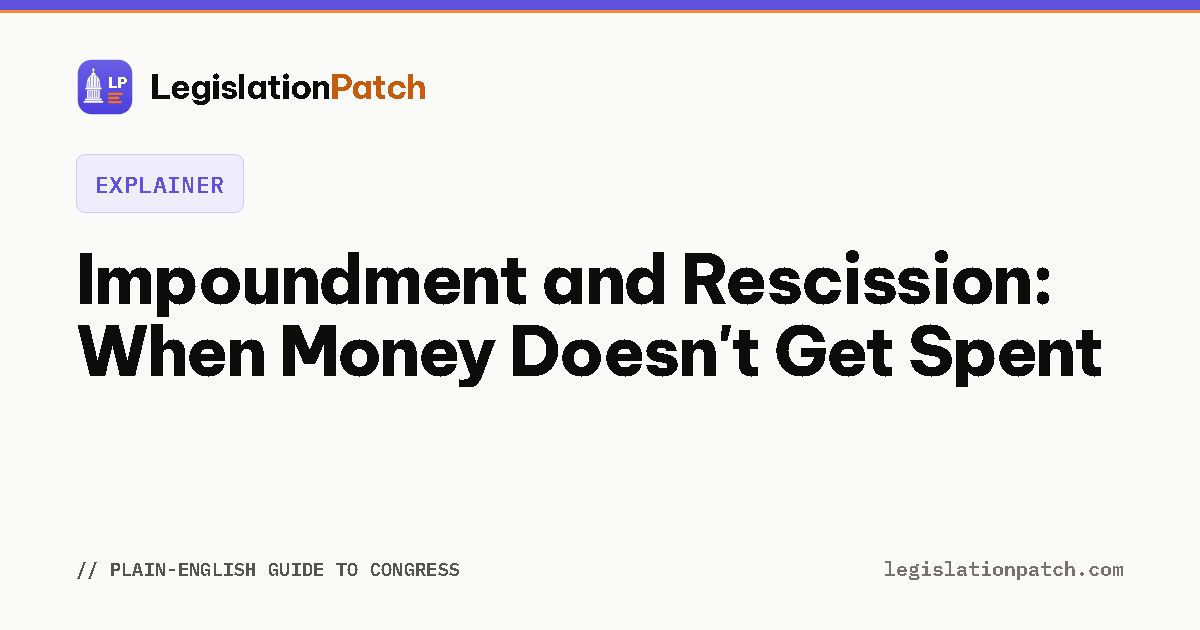
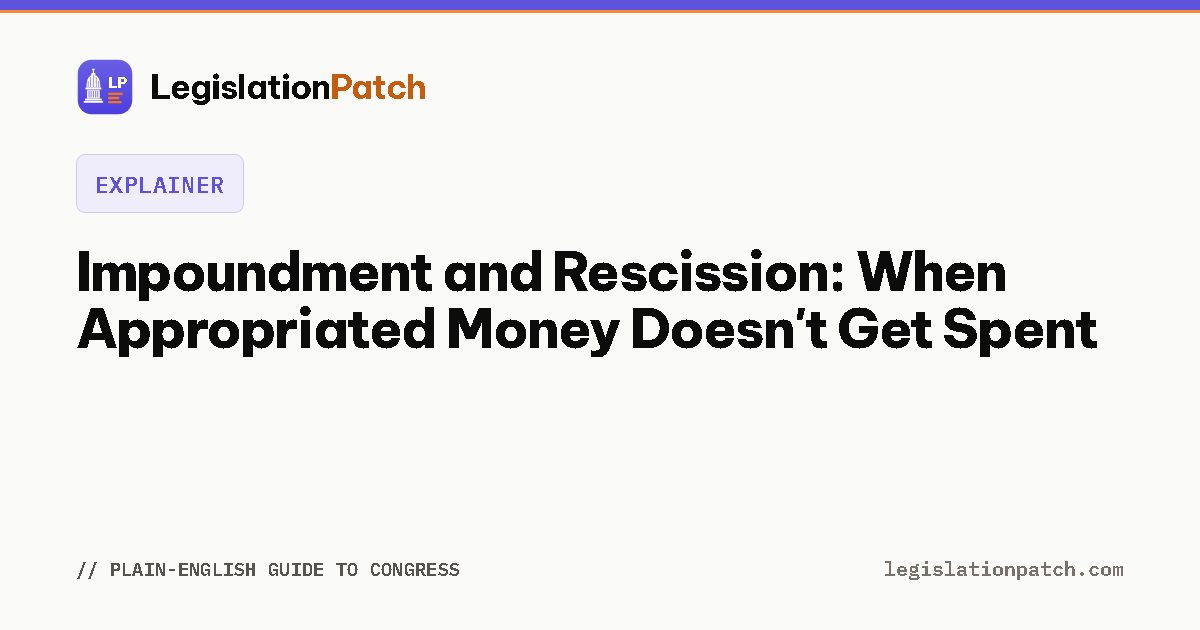
Refresh explainer: impoundment-rescission (87-claim ledger, 11 sources, 5 passes)

Changed region(s): [[0.0617, 0.3921, 0.925, 0.6333]]

diff --git a/articles/impoundment-rescission.html b/articles/impoundment-rescission.html
@@ -12,7 +12,7 @@
   <meta property="og:type" content="article" />
   <meta property="og:url" content="https://legislationpatch.com/articles/impoundment-rescission.html" />
   <meta property="og:title" content="Impoundment and Rescission: When Appropriated Money Doesn't Get Spent" />
-  <meta property="og:description" content="What impoundment, rescission, and deferral mean under the Impoundment Control Act of 1974 — the 45-day clock, the GAO's role, what a rescission bill is, and the disputed 'pocket rescission' maneuver, presented as attributed legal positions." />
+  <meta property="og:description" content="What impoundment, rescission, and deferral mean under the Impoundment Control Act of 1974 — the 45-day clock, the GAO's role, what a rescission bill is, and the disputed &quot;pocket rescission&quot; maneuver, presented as attributed legal positions." />
   <meta property="og:image" content="https://legislationpatch.com/og/articles/impoundment-rescission.png" />
   <meta name="twitter:card" content="summary_large_image" />
   <meta name="twitter:image" content="https://legislationpatch.com/og/articles/impoundment-rescission.png" />
@@ -22,7 +22,7 @@
     "@context": "https://schema.org",
     "@type": "Article",
     "headline": "Impoundment and Rescission: When Appropriated Money Doesn't Get Spent",
-    "description": "What impoundment, rescission, and deferral mean under the Impoundment Control Act of 1974 — the 45-day clock, the GAO's role, what a rescission bill is, and the disputed 'pocket rescission' maneuver, presented as attributed legal positions.",
+    "description": "What impoundment, rescission, and deferral mean under the Impoundment Control Act of 1974 — the 45-day clock, the GAO's role, what a rescission bill is, and the disputed &quot;pocket rescission&quot; maneuver, presented as attributed legal positions.",
     "author": {
       "@id": "https://legislationpatch.com/author/james-shearn#person"
     },
@@ -30,7 +30,7 @@
       "@id": "https://legislationpatch.com/#organization"
     },
     "datePublished": "2026-07-17",
-    "dateModified": "2026-07-17",
+    "dateModified": "2026-09-01",
     "url": "https://legislationpatch.com/articles/impoundment-rescission.html",
     "image": "https://legislationpatch.com/og/articles/impoundment-rescission.png",
     "mainEntityOfPage": {
@@ -63,7 +63,64 @@
       "@type": "Thing",
       "name": "Impoundment of appropriated funds",
       "sameAs": "https://en.wikipedia.org/wiki/Impoundment_of_appropriated_funds"
-    }
+    },
+    "citation": [
+      {
+        "@type": "CreativeWork",
+        "name": "U.S. GAO: Impoundment Control Act",
+        "url": "https://www.gao.gov/legal/appropriations-law/impoundment-control-act"
+      },
+      {
+        "@type": "CreativeWork",
+        "name": "CRS Report R48432 — The Impoundment Control Act of 1974: Background and Congressional Consideration of Rescissions (February 25, 2025)",
+        "url": "https://www.everycrsreport.com/reports/R48432.html"
+      },
+      {
+        "@type": "CreativeWork",
+        "name": "CRS Legal Sidebar LSB11374 — Pocket Rescissions and the Impoundment Control Act (last revised September 25, 2025)",
+        "url": "https://www.everycrsreport.com/reports/LSB11374.html"
+      },
+      {
+        "@type": "CreativeWork",
+        "name": "CRS Report R46240 — Introduction to the Federal Budget Process",
+        "url": "https://www.everycrsreport.com/reports/R46240.html"
+      },
+      {
+        "@type": "CreativeWork",
+        "name": "2 U.S.C. 682 — Definitions",
+        "url": "https://uscode.house.gov/view.xhtml?req=granuleid:USC-prelim-title2-section682&num=0&edition=prelim"
+      },
+      {
+        "@type": "CreativeWork",
+        "name": "2 U.S.C. 683 — Rescission of budget authority",
+        "url": "https://uscode.house.gov/view.xhtml?req=granuleid:USC-prelim-title2-section683&num=0&edition=prelim"
+      },
+      {
+        "@type": "CreativeWork",
+        "name": "2 U.S.C. 684 — Proposed deferrals of budget authority",
+        "url": "https://uscode.house.gov/view.xhtml?req=granuleid:USC-prelim-title2-section684&num=0&edition=prelim"
+      },
+      {
+        "@type": "CreativeWork",
+        "name": "2 U.S.C. 685 — Transmission of messages; publication",
+        "url": "https://uscode.house.gov/view.xhtml?req=granuleid:USC-prelim-title2-section685&num=0&edition=prelim"
+      },
+      {
+        "@type": "CreativeWork",
+        "name": "2 U.S.C. 686 — Reports by Comptroller General",
+        "url": "https://uscode.house.gov/view.xhtml?req=granuleid:USC-prelim-title2-section686&num=0&edition=prelim"
+      },
+      {
+        "@type": "CreativeWork",
+        "name": "2 U.S.C. 687 — Suits by Comptroller General",
+        "url": "https://uscode.house.gov/view.xhtml?req=granuleid:USC-prelim-title2-section687&num=0&edition=prelim"
+      },
+      {
+        "@type": "CreativeWork",
+        "name": "2 U.S.C. 688 — Procedure in House of Representatives and Senate",
+        "url": "https://uscode.house.gov/view.xhtml?req=granuleid:USC-prelim-title2-section688&num=0&edition=prelim"
+      }
+    ]
   }
   </script>
 
@@ -131,66 +188,99 @@
 
       <div class="topic-hub-link" style="margin:-4px 0 16px;font-size:0.85rem;opacity:0.85">Part of the topic hub: <a href="/topics/government-spending/">Government Spending &amp; the Budget, Explained</a></div>
 
-      <h1 class="article-title">Impoundment and Rescission: When Money Doesn't Get Spent</h1>
+      <h1 class="article-title">Impoundment and Rescission: When Appropriated Money Doesn't Get Spent</h1>
 
       <div class="article-meta">
         <span>By <a href="https://legislationpatch.com/author/james-shearn" rel="author">James Shearn</a>, Editor</span>
-        <span>Published July 2026</span>
+        <span>Published July 2026</span><span>Updated September 2026</span>
       </div>
 
       <div class="article-body">
 
-        <p>Congress appropriates money, but the executive branch spends it — and sometimes the executive branch would prefer not to. Impoundment is the general term for the executive holding back or delaying money Congress has appropriated. Since 1974, a federal statute has set the rules for when and how that can happen, and the boundaries of those rules are the subject of an active legal dispute. This guide explains the mechanism defined by the Impoundment Control Act, the difference between a rescission and a deferral, the role the Government Accountability Office plays, and the contested "pocket rescission" maneuver. Where the law is disputed, this guide reports each side's position rather than resolving it.</p>
+        <p>Congress appropriates money, but the executive branch spends it — and sometimes the executive branch would prefer not to. Impoundment is the general term for the executive holding back or delaying money Congress has appropriated. Since 1974 a federal statute has set the rules for when and how that can happen. This guide explains the mechanism the Impoundment Control Act defines, the difference between a rescission and a deferral, the role the Government Accountability Office plays, and the contested "pocket rescission" maneuver. Where the law is disputed, this guide reports each side's position, dated to the source that records it, rather than resolving it.</p>
 
         <h2>What is impoundment?</h2>
 
-        <p>Impoundment is an executive action that withholds or delays the obligation of budget authority that Congress has provided. After a series of disputes in the early 1970s over funds the executive branch declined to spend, Congress enacted the Impoundment Control Act of 1974 as Title X of the Congressional Budget and Impoundment Control Act. It is codified at 2 U.S.C. sections 681 through 688. The Act does not ban impoundment; it channels it into two defined procedures — rescission and deferral — and requires the President to notify Congress through a "special message" whenever either is used.</p>
+        <p>The Congressional Research Service defines it plainly: "Impoundment occurs when appropriated funds are withheld from obligation or expenditure. Historically, most impoundments were noncontroversial, primarily undertaken to manage expenditures or effect savings."</p>
+        <p>What changed that was a fight in the 1970s. CRS records that "In the 1970s, however, President Richard Nixon asserted the authority to act on his own to withhold funds or curtail programs he opposed. This assertion was challenged in the courts in a number of suits to compel the release of impounded funds or require the Administration to carry out statutory duties that would result in the expenditure of funds. Congress ultimately responded by enacting impoundment control legislation as Title X of the Congressional Budget and Impoundment Control Act of 1974 (P.L. 93-344)." GAO gives the same account: "In 1974, Congress enacted the Impoundment Control Act in response to attempts by the executive branch to refuse to spend congressionally appropriated funds." CRS gives the codification: "Title X of the Congressional Budget and Impoundment Control Act of 1974 (P.L. 93-344, 2 U.S.C. §§681-688) is known as the Impoundment Control Act (ICA)."</p>
+        <p>The Act does not ban impoundment. It sorts it: the ICA "amended the Antideficiency Act to limit its use for impounding funds and divided impoundments into two categories: deferrals, which provide for a temporary delay of spending, and rescissions, which provide for the permanent cancellation of spending." It also put a clock on the executive where there had been none — "Prior to the enactment of the ICA, there was no express statutory limit on the length of time the President could withhold appropriated funds." Both routes run through a special message to Congress. As GAO summarises it, the Act "permits the President to temporarily impound" appropriated funds in certain circumstances "if the President notifies the Congress by transmitting a" special message.</p>
 
         <h2>Rescission vs. deferral: what's the difference?</h2>
 
-        <p>A <strong>rescission</strong> is a proposal to permanently cancel budget authority before it would otherwise expire. To propose one, the President sends Congress a special message identifying the specific amounts and accounts. Crucially, proposing a rescission only lets the executive withhold the funds temporarily: the money may be held for up to 45 days of continuous session while Congress considers the request. If Congress does not pass legislation approving the rescission within that window, the withheld budget authority must be made available for obligation. In other words, a rescission proposal that Congress ignores fails — the default is that the money gets released.</p>
+        <p>A <strong>rescission</strong>, in GAO's words, "is the proposed cancellation of budget authority that has been provided by Congress before that authority would otherwise expire." To propose one the President transmits a special message identifying the amounts and accounts. Proposing it only buys time: "Once a recission is proposed to Congress, the President can withhold the budget authority for 45 days while Congress is in continuous session. Unless Congress completes action on a rescission bill to approve the proposed rescission within that time, the budget authority must be made available for obligation."</p>
 
-        <p>A <strong>deferral</strong> is a proposal to delay, rather than cancel, the obligation of funds. The Act permits deferrals only for limited reasons: to provide for contingencies, to achieve savings made possible by changes in requirements or greater efficiency of operations, or as otherwise specifically provided by law. A deferral cannot be used simply because the executive disagrees with the spending on policy grounds, and it may not extend beyond the end of the fiscal year in which it is proposed.</p>
+        <p>That is the statute's own language. 2 U.S.C. 683(b) provides that "Any amount of budget authority proposed to be rescinded or that is to be reserved as set forth in such special message shall be made available for obligation unless, within the prescribed 45-day period, the Congress has completed action on a rescission bill rescinding all or part of the amount proposed to be rescinded or that is to be reserved," and adds a one-shot rule: "Funds made available for obligation under this procedure may not be proposed for rescission again." A rescission proposal Congress ignores therefore fails, and the money is released. "Continuous session" is a defined term — under 2 U.S.C. 682(5), "continuity of a session of the Congress shall be considered as broken only by an adjournment of the Congress sine die," and days lost to adjournments of more than three days do not count.</p>
+
+        <p>A <strong>deferral</strong> is a proposal to delay rather than cancel. GAO: "A deferral occurs when an agency temporarily withholds funds from obligation or expenditure." The statutory definition at 2 U.S.C. 682(1)(B) is wider than it sounds, reaching "any other type of Executive action or inaction which effectively precludes the obligation or expenditure of budget authority, including authority to obligate by contract in advance of appropriations as specifically authorized by law." The permitted grounds are closed: 2 U.S.C. 684(b) provides that "Deferrals shall be permissible only — (1) to provide for contingencies; (2) to achieve savings made possible by or through changes in requirements or greater efficiency of operations; or (3) as specifically provided by law. No officer or employee of the United States may defer any budget authority for any other purpose." Policy disagreement is not on that list. And there is an outer limit: "A deferral may not be proposed for any period of time extending beyond the end of the fiscal year in which the special message proposing the deferral is transmitted to the House and the Senate."</p>
 
         <h2>What role does the GAO play?</h2>
 
-        <p>The Impoundment Control Act assigns an oversight role to the Comptroller General, who heads the Government Accountability Office. Under the Act, the GAO reviews each special message and reports its findings to Congress. It checks that an impoundment is classified correctly — for instance, that a proposal to cancel funds is not labeled a deferral to sidestep the rescission rules — and it can reclassify a message accordingly. The GAO is also directed to notify Congress if the President withholds funds without submitting the required special message. If budget authority is being withheld improperly, the Act authorizes the Comptroller General to bring a civil action in the U.S. District Court for the District of Columbia to compel the funds to be made available.</p>
+        <p>The Act assigns an oversight role to the Comptroller General — duties the Government Accountability Office publishes under the heading "GAO's Responsibilities Under the Impoundment Control Act." Three duties and one remedy, all in the statute.</p>
+
+        <p><strong>Review.</strong> Under 2 U.S.C. 685(b), "the Comptroller General shall review each such message and inform the House of Representatives and the Senate as promptly as practicable" — on a rescission message, about "the facts surrounding the proposed rescission or the reservation of budget authority (including the probable effects thereof)"; on a deferral message, about those facts and about "whether or not (or to what extent), in his judgment, such proposed deferral is in accordance with existing statutory authority." GAO puts its own gloss on the same duty: "The Comptroller General is required to review each special message and report the findings to Congress as soon as practicable."</p>
+
+        <p><strong>Classification.</strong> Under 2 U.S.C. 686(b), where "the Comptroller General believes that the President so transmitted the special message in accordance with one of those sections when the special message should have been transmitted in accordance with the other of those sections, the Comptroller General shall make a report to both Houses of the Congress setting forth his reasons." In GAO's summary, "The Comptroller General also ensures that the impoundment is not misclassified, such as a rescission proposal reported as a deferral."</p>
+
+        <p><strong>Unreported impoundments.</strong> Where the President has withheld funds without the required message, 2 U.S.C. 686(a) provides that "the Comptroller General shall make a report on such reserve or deferral and any available information concerning it to both Houses of Congress" — and the Act then treats that report as if it were the President's own special message. GAO states the duty the same way: "The Comptroller General must also report to Congress if the President has failed to report an impoundment to Congress in a special message as required."</p>
+
+        <p><strong>Suit.</strong> Under 2 U.S.C. 687, "the Comptroller General is hereby expressly empowered, through attorneys of his own selection, to bring a civil action in the United States District Court for the District of Columbia to require such budget authority to be made available for obligation." It is not immediate: "No civil action shall be brought by the Comptroller General under this section until the expiration of 25 calendar days of continuous session of the Congress following the date on which an explanatory statement by the Comptroller General of the circumstances giving rise to the action contemplated has been filed with the Speaker of the House of Representatives and the President of the Senate." GAO describes the same remedy: "If an agency does not release budget authority for the obligation, the Comptroller General may bring a civil action in the U.S. District Court for the District of Columbia to compel such action."</p>
 
         <h2>What is a rescission bill?</h2>
 
-        <p>A rescission bill is the legislation Congress passes to approve a rescission the President has proposed. The Impoundment Control Act gives it expedited treatment in the Senate: a qualifying rescission bill is considered under fast-track procedures, cannot be filibustered, and passes on a simple majority rather than the 60 votes cloture usually requires. That expedited path exists so Congress can act on a rescission request within the 45-day clock. If Congress declines to pass a rescission bill, the proposal simply lapses and the funds are released. Rescissions therefore differ from ordinary spending cuts in that they run through a defined statutory procedure tied to funds the executive has already been given. For the broader funding cycle these sit inside, see our guide on <a href="appropriations-process.html">how federal appropriations work</a>.</p>
+        <p>A rescission bill is the legislation Congress passes to approve a rescission the President has proposed. 2 U.S.C. 682(3) defines it narrowly: a bill or joint resolution "which only rescinds, in whole or in part, budget authority proposed to be rescinded in a special message transmitted by the President under section 683 of this title," on which Congress completes action inside the 45-day window.</p>
+
+        <p>What the Act gives it is a debate clock, not a different vote threshold. CRS: "These procedures include limits on debate time, which effectively eliminates the need to invoke cloture to reach a final vote on the bill." The Senate figure is in 2 U.S.C. 688(d)(1): "Debate in the Senate on any rescission bill or impoundment resolution, and all amendments thereto (in the case of a rescission bill) and debatable motions and appeals in connection therewith, shall be limited to not more than 10 hours." The House figure is in 688(c)(2): "Debate on a rescission bill or impoundment resolution shall be limited to not more than 2 hours, which shall be divided equally between those favoring and those opposing the bill or resolution." Amendments are constrained too — "No amendment that is not germane to the provisions of a rescission bill shall be received" — and, as CRS notes of the Senate limit, "These limits are considered by the Senate to be limits on debate time only, not on total consideration." CRS puts the resemblance no higher than that: the ICA language "is analogous to the language in Title III of the Budget Act, which establishes similar debate limits for budget resolutions and <a href="budget-reconciliation.html">reconciliation bills</a>."</p>
+
+        <p>A bill can be prised out of committee. Under 2 U.S.C. 688(b)(1), "If the committee to which a rescission bill or impoundment resolution has been referred has not reported it at the end of 25 calendar days of continuous session of the Congress after its introduction, it is in order to move either to discharge the committee from further consideration of the bill or resolution" or from any other rescission bill on the same special message.</p>
+
+        <p>None of it is compulsory, and none of it is common. CRS: "The procedure in the ICA, however, is not the exclusive means for considering rescissions, nor is there any requirement that the House or Senate must use this procedure (or any other) to consider rescission requests transmitted by the President." And: "Congress has used this procedure infrequently, and as a consequence there are few precedents or examples to guide its interpretation and application." Writing in February 2025, CRS gave as "the two most recent instances in which the House considered rescission bills pursuant to presidential special messages" 1992, when H.R. 4990 became P.L. 102-298, and 2018, when H.R. 3 passed the House but the Senate motion to discharge "subsequently failed, however, 48-50."</p>
+
+        <p>One more has happened since. A later CRS sidebar opens: "On July 24, 2025, President Donald J. Trump signed into law the Rescissions Act of 2025. The statute marks the first time since 1992 that a President has successfully invoked the Impoundment Control Act of 1974 (ICA) to secure passage of a rescission bill." It followed the ordinary route: "Congress acted after President Trump's May 2025 transmission to Congress of a rescission special message. The special message made available special legislative procedures, including limits on debate in the Senate on a rescission bill introduced with respect to the special message." The expedited path is also time-boxed, in the earlier report's words: "These expedited procedures are available only during the period when funds may be withheld from obligation."</p>
+
+        <p>If Congress declines to pass a rescission bill, the proposal lapses and the funds are released. For the broader funding cycle these sit inside, see our guide on <a href="appropriations-process.html">how federal appropriations work</a>.</p>
 
         <h2>What is a "pocket rescission"?</h2>
 
-        <p>A "pocket rescission" refers to the executive sending a rescission special message so close to the date the funds would expire that the 45-day withholding period runs past that expiration date. Because the funds would lapse on their own before the 45 days elapse, the practical effect is that the money is never spent even though Congress never approved the rescission. Whether the Act permits this is disputed, and the dispute has been primarily between two parts of the government that have reached different legal conclusions.</p>
+        <p>A "pocket rescission" is the executive sending a rescission special message so close to the date the funds would expire that the 45-day withholding period runs past that expiration date. GAO describes the practice at issue as "the withholding of funds proposed for rescission through their expiration date." Because the funds lapse on their own before the 45 days elapse, the practical effect is that the money is never spent even though Congress never approved the rescission. The August 2025 message is the worked example CRS gives: "All of the funds that the President proposes to rescind expire at the end of FY2025 (i.e., on October 1, 2025)." "Fewer than 45 calendar days separate August 28 and October 1." And "the White House has said it intends to withhold the funds from obligation through their expiration unless, in the meantime, Congress rescinds the funds." CRS records that "senior Trump Administration officials have argued that a President may use the ICA to reduce federal spending when Congress does not enact a rescission bill by using a pocket rescission," and that examples are rare: "the historical record appears to contain only a few examples of pocket rescissions."</p>
+        <p>Whether the Act permits it is disputed. As CRS puts it, "Most of the recent legal debate concerning pocket rescissions has instead involved the Government Accountability Office (GAO) and the Office of Management and Budget (OMB), which have reached different legal conclusions," and the disagreement "centers on the text of Section 1012(b)" — the provision codified at 2 U.S.C. 683(b) and quoted above.</p>
 
-        <p><strong>The GAO's position.</strong> The Government Accountability Office states that "the Impoundment Control Act does not permit the withholding of funds proposed for rescission through their expiration date." In its analysis, the Act allows funds to be withheld only while Congress considers a rescission and requires them to be made available for obligation if Congress does not act, so withholding them all the way to expiration is, in the GAO's view, an impermissible impoundment. The GAO has likened the maneuver to the line-item veto that the Supreme Court held unconstitutional in <em>Clinton v. City of New York</em> (1998).</p>
+        <p><strong>The GAO's position.</strong> The Government Accountability Office states that "The Impoundment Control Act does not permit the withholding of funds proposed for rescission through their expiration date. If Congress does not affirmatively rescind the funds, funds proposed for rescission must be made available for prudent obligation before the amounts expire." CRS sets out the reasoning: GAO reads Section 1012(b) as containing "a mandatory directive that funds proposed for rescission be made available for obligation," subject to a "single exception" — Congress completing action on a rescission bill inside the 45 days — from which GAO infers an "implicit" requirement that withheld authority be released before it expires, "because funds that are allowed to expire cannot 'be made available for obligation.'" GAO also makes a constitutional argument: per CRS, "GAO likens pocket rescissions to the Line Item Veto Act of 1996, which the Supreme Court held unconstitutional in <em>Clinton v. City of New York</em> because the statute authorized the President to 'effect the repeal of laws' without securing new legislation."</p>
 
-        <p><strong>The executive branch's position.</strong> The Office of Management and Budget has argued that the Act permits the executive to withhold funds proposed for rescission for the full statutory period, even when that period runs past the point at which the funds would otherwise expire. On this reading, sending the special message triggers a lawful withholding for the time the statute allows, and the fact that the funds then expire is a consequence of the appropriation's own duration rather than a violation of the Act.</p>
+        <p><strong>The executive branch's position.</strong> Per CRS, "OMB reads the ICA to permit pocket rescissions." Per CRS, "OMB's argument begins by noting that Section 1012 does not expressly prohibit the President from transmitting a rescission special message near the end of a fiscal year, when fixed-period appropriations typically expire," and OMB argues that the provision "provides 45 days of withholding authority but does not expressly require 'the President to make withheld budget authority available for obligation' earlier than the end of the 45-day period if withheld funds would expire in the meantime." The comparison OMB draws is with the deferral provision, which does bar a withholding that crosses fiscal years: on OMB's reading Congress "decided to limit" end-of-year withholding "only with respect to deferrals, not with respect to rescissions." Against GAO's constitutional argument, "The Trump Administration, for its part, casts pocket rescissions as occurring because of the operation of law, rather than its repeal."</p>
 
-        <p>These are the two positions as their proponents state them. LegislationPatch does not take a side on which reading of the statute is correct; the question turns on contested points of statutory interpretation that, as of 2026, had been the subject of litigation but not settled by a final court ruling on the specific pocket-rescission question.</p>
+        <p>These are the two positions as their proponents state them, as recorded by CRS in a Legal Sidebar last revised September 25, 2025. LegislationPatch does not take a side on which reading of the statute is correct.</p>
 
         <div class="article-source-box">
-          <div class="article-source-box-label">Dated example: the 2025 litigation</div>
+          <div class="article-source-box-label">Dated example: the 2025 litigation, as recorded by CRS on September 25, 2025</div>
           <ul>
-            <li>In March 2025, the U.S. District Court for the District of Columbia entered a preliminary injunction barring the executive branch from withholding certain congressionally appropriated foreign-aid funds — the first time a federal court addressed whether the executive may rely on the Impoundment Control Act's rescission-withholding provision to hold funds from obligation.</li>
-            <li>On September 9, 2025, Chief Justice John Roberts granted an administrative stay of that injunction as it applied to appropriations covered by an August 28, 2025 special message, allowing the funds to be withheld while the Supreme Court considered the stay application.</li>
-            <li>This box records the status as of the article's publication and is not a prediction of the outcome. Consult the primary sources below for current developments.</li>
+            <li>"In March 2025, the D.C. district court entered a preliminary injunction barring executive branch actors 'from unlawfully impounding congressionally appropriated foreign aid funds' and ordering them to 'make available for obligation the full amount of funds that Congress appropriated for foreign assistance programs in the Further Consolidated Appropriations Act of 2024.'" That ruling did <strong>not</strong> turn on the rescission-withholding provision. CRS: "The D.C. district court held that the plaintiffs were likely to prevail on claims that the withholding violated the separation of powers and was final agency action that was contrary to law, within the meaning of the Administrative Procedure Act (APA) because the President had not then transmitted a special message under the ICA proposing either a rescission or deferral of the withheld funds."</li>
+            <li>"On August 28, 2025, the U.S. Court of Appeals for the D.C. Circuit (D.C. Circuit) vacated the preliminary injunction in part." Within hours, the President transmitted a new rescission special message: "Based on a new rescission special message transmitted to Congress on August 28, 2025, the White House states that it is now pursuing such a pocket rescission strategy with respect to nearly $5 billion in foreign assistance appropriations."</li>
+            <li>"On September 3, the D.C. district court entered a new preliminary injunction requiring defendants to obligate the $10 billion in foreign assistance appropriations that are set to expire at the end of September, including funds proposed for rescission in the August 2025 special message. The decision contains the only judicial construction of Section 1012(b) to date." That is the first time a court read the rescission-withholding provision — September 2025, not March.</li>
+            <li>"On September 9, Chief Justice John Roberts granted an administrative stay of the preliminary injunction to the extent it concerned the appropriations that were included in the August 28, 2025, special message." The stay was of the September 3 injunction. As of the CRS sidebar's last revision, "The Court has not yet decided the application."</li>
+            <li>This box records what a dated source says, not a prediction of the outcome. Consult the primary sources below for developments after September 25, 2025.</li>
           </ul>
         </div>
 
         <h2>How this connects to the rest of the budget process</h2>
 
-        <p>Impoundment questions arise on the back end of the budget cycle — after appropriations are enacted — which is why they interact with the tools covered elsewhere on this site. When regular appropriations lapse, the government runs on a <a href="continuing-resolution.html">continuing resolution</a> or faces a <a href="government-shutdown.html">government shutdown</a>; and the fast-track, filibuster-proof treatment a rescission bill enjoys in the Senate parallels the expedited path used for <a href="budget-reconciliation.html">budget reconciliation</a>. What ties them together is the constitutional starting point that spending authority comes from Congress; the Impoundment Control Act is the statute that defines what the executive may and may not do with that authority once it has been granted.</p>
+        <p>Impoundment questions arise on the back end of the budget cycle, after appropriations are enacted, which is why they interact with the tools covered elsewhere on this site. When regular appropriations lapse, the government runs on a <a href="continuing-resolution.html">continuing resolution</a> or faces a <a href="government-shutdown.html">government shutdown</a>. And on the Senate debate limit, CRS describes the ICA language as "analogous to the language in Title III of the Budget Act, which establishes similar debate limits for budget resolutions and <a href="budget-reconciliation.html">reconciliation bills</a>."</p>
+
+        <p>Rescissions are also not confined to this procedure. CRS records that "Congress regularly considers rescissions" in other measures, and that "The most frequent consideration of rescissions occurs in the context of general appropriations bills."</p>
 
         <div class="article-source-box">
           <div class="article-source-box-label">Key Sources</div>
           <ul>
             <li><a href="https://www.gao.gov/legal/appropriations-law/impoundment-control-act" target="_blank" rel="noopener">U.S. GAO: Impoundment Control Act</a></li>
-            <li><a href="https://www.congress.gov/crs-product/R48432" target="_blank" rel="noopener">CRS Report R48432: The Impoundment Control Act of 1974 — Background and Congressional Consideration of Rescissions</a></li>
-            <li><a href="https://www.congress.gov/crs-product/LSB11374" target="_blank" rel="noopener">CRS Report LSB11374: Pocket Rescissions and the Impoundment Control Act — Legal Authority and Options for Congress</a></li>
+            <li><a href="https://www.everycrsreport.com/reports/R48432.html" target="_blank" rel="noopener">CRS Report R48432 — The Impoundment Control Act of 1974: Background and Congressional Consideration of Rescissions (February 25, 2025)</a></li>
+            <li><a href="https://www.everycrsreport.com/reports/LSB11374.html" target="_blank" rel="noopener">CRS Legal Sidebar LSB11374 — Pocket Rescissions and the Impoundment Control Act (last revised September 25, 2025)</a></li>
+            <li><a href="https://www.everycrsreport.com/reports/R46240.html" target="_blank" rel="noopener">CRS Report R46240 — Introduction to the Federal Budget Process</a></li>
+            <li><a href="https://uscode.house.gov/view.xhtml?req=granuleid:USC-prelim-title2-section682&num=0&edition=prelim" target="_blank" rel="noopener">2 U.S.C. 682 — Definitions</a></li>
             <li><a href="https://uscode.house.gov/view.xhtml?req=granuleid:USC-prelim-title2-section683&num=0&edition=prelim" target="_blank" rel="noopener">2 U.S.C. 683 — Rescission of budget authority</a></li>
-            <li><a href="https://uscode.house.gov/view.xhtml?req=granuleid:USC-prelim-title2-section684&num=0&edition=prelim" target="_blank" rel="noopener">2 U.S.C. 684 — Deferral of budget authority</a></li>
+            <li><a href="https://uscode.house.gov/view.xhtml?req=granuleid:USC-prelim-title2-section684&num=0&edition=prelim" target="_blank" rel="noopener">2 U.S.C. 684 — Proposed deferrals of budget authority</a></li>
+            <li><a href="https://uscode.house.gov/view.xhtml?req=granuleid:USC-prelim-title2-section685&num=0&edition=prelim" target="_blank" rel="noopener">2 U.S.C. 685 — Transmission of messages; publication</a></li>
+            <li><a href="https://uscode.house.gov/view.xhtml?req=granuleid:USC-prelim-title2-section686&num=0&edition=prelim" target="_blank" rel="noopener">2 U.S.C. 686 — Reports by Comptroller General</a></li>
+            <li><a href="https://uscode.house.gov/view.xhtml?req=granuleid:USC-prelim-title2-section687&num=0&edition=prelim" target="_blank" rel="noopener">2 U.S.C. 687 — Suits by Comptroller General</a></li>
+            <li><a href="https://uscode.house.gov/view.xhtml?req=granuleid:USC-prelim-title2-section688&num=0&edition=prelim" target="_blank" rel="noopener">2 U.S.C. 688 — Procedure in House of Representatives and Senate</a></li>
           </ul>
         </div>
 

diff --git a/author/james-shearn/index.html b/author/james-shearn/index.html
@@ -192,6 +192,10 @@
     <h2 style="font-size:1rem;font-weight:600;margin:1.75rem 0 0.4rem">Recent work</h2>
     <ul style="margin:0.4rem 0 0 1.1rem;line-height:1.5;list-style:none;padding-left:0">
           <li style="margin-bottom:0.6rem">
+            <a href="/articles/impoundment-rescission.html">Impoundment and Rescission: When Appropriated Money Doesn't Get Spent</a>
+            <span class="section-label" style="display:block;font-size:0.78rem;opacity:0.7">Updated September 1, 2026</span>
+          </li>
+          <li style="margin-bottom:0.6rem">
             <a href="/articles/government-shutdown.html">What Happens During a Government Shutdown?</a>
             <span class="section-label" style="display:block;font-size:0.78rem;opacity:0.7">Updated September 1, 2026</span>
           </li>
@@ -233,10 +237,6 @@
           </li>
           <li style="margin-bottom:0.6rem">
             <a href="/articles/safe-drugs-act.html">SAFE Drugs Act of 2025 (H.R. 6509): Status, What It Does, and Where It Stands</a>
-            <span class="section-label" style="display:block;font-size:0.78rem;opacity:0.7">Updated August 31, 2026</span>
-          </li>
-          <li style="margin-bottom:0.6rem">
-            <a href="/articles/appropriations-act-2026.html">The 2026 Consolidated Appropriations Act: What Actually Changed</a>
             <span class="section-label" style="display:block;font-size:0.78rem;opacity:0.7">Updated August 31, 2026</span>
           </li>
     </ul>

diff --git a/articles/index.html b/articles/index.html
@@ -324,7 +324,7 @@
         <p class="article-card-summary">A discharge petition lets 218 House members force a bill out of committee and onto the floor over the objection of leadership. How the threshold works and how often it succeeds.</p>
       </div>
       <div class="article-card">
-        <div class="article-card-label">Explainer</div>
+        <div class="article-card-label">Explainer &middot; Updated September 2026</div>
         <a href="impoundment-rescission.html" class="article-card-title">Impoundment and Rescission: When Appropriated Money Doesn't Get Spent</a>
         <p class="article-card-summary">The Impoundment Control Act sets the rules for when the executive can withhold appropriated funds — rescissions, deferrals, the 45-day clock, the GAO's role, and the disputed pocket rescission.</p>
       </div>
